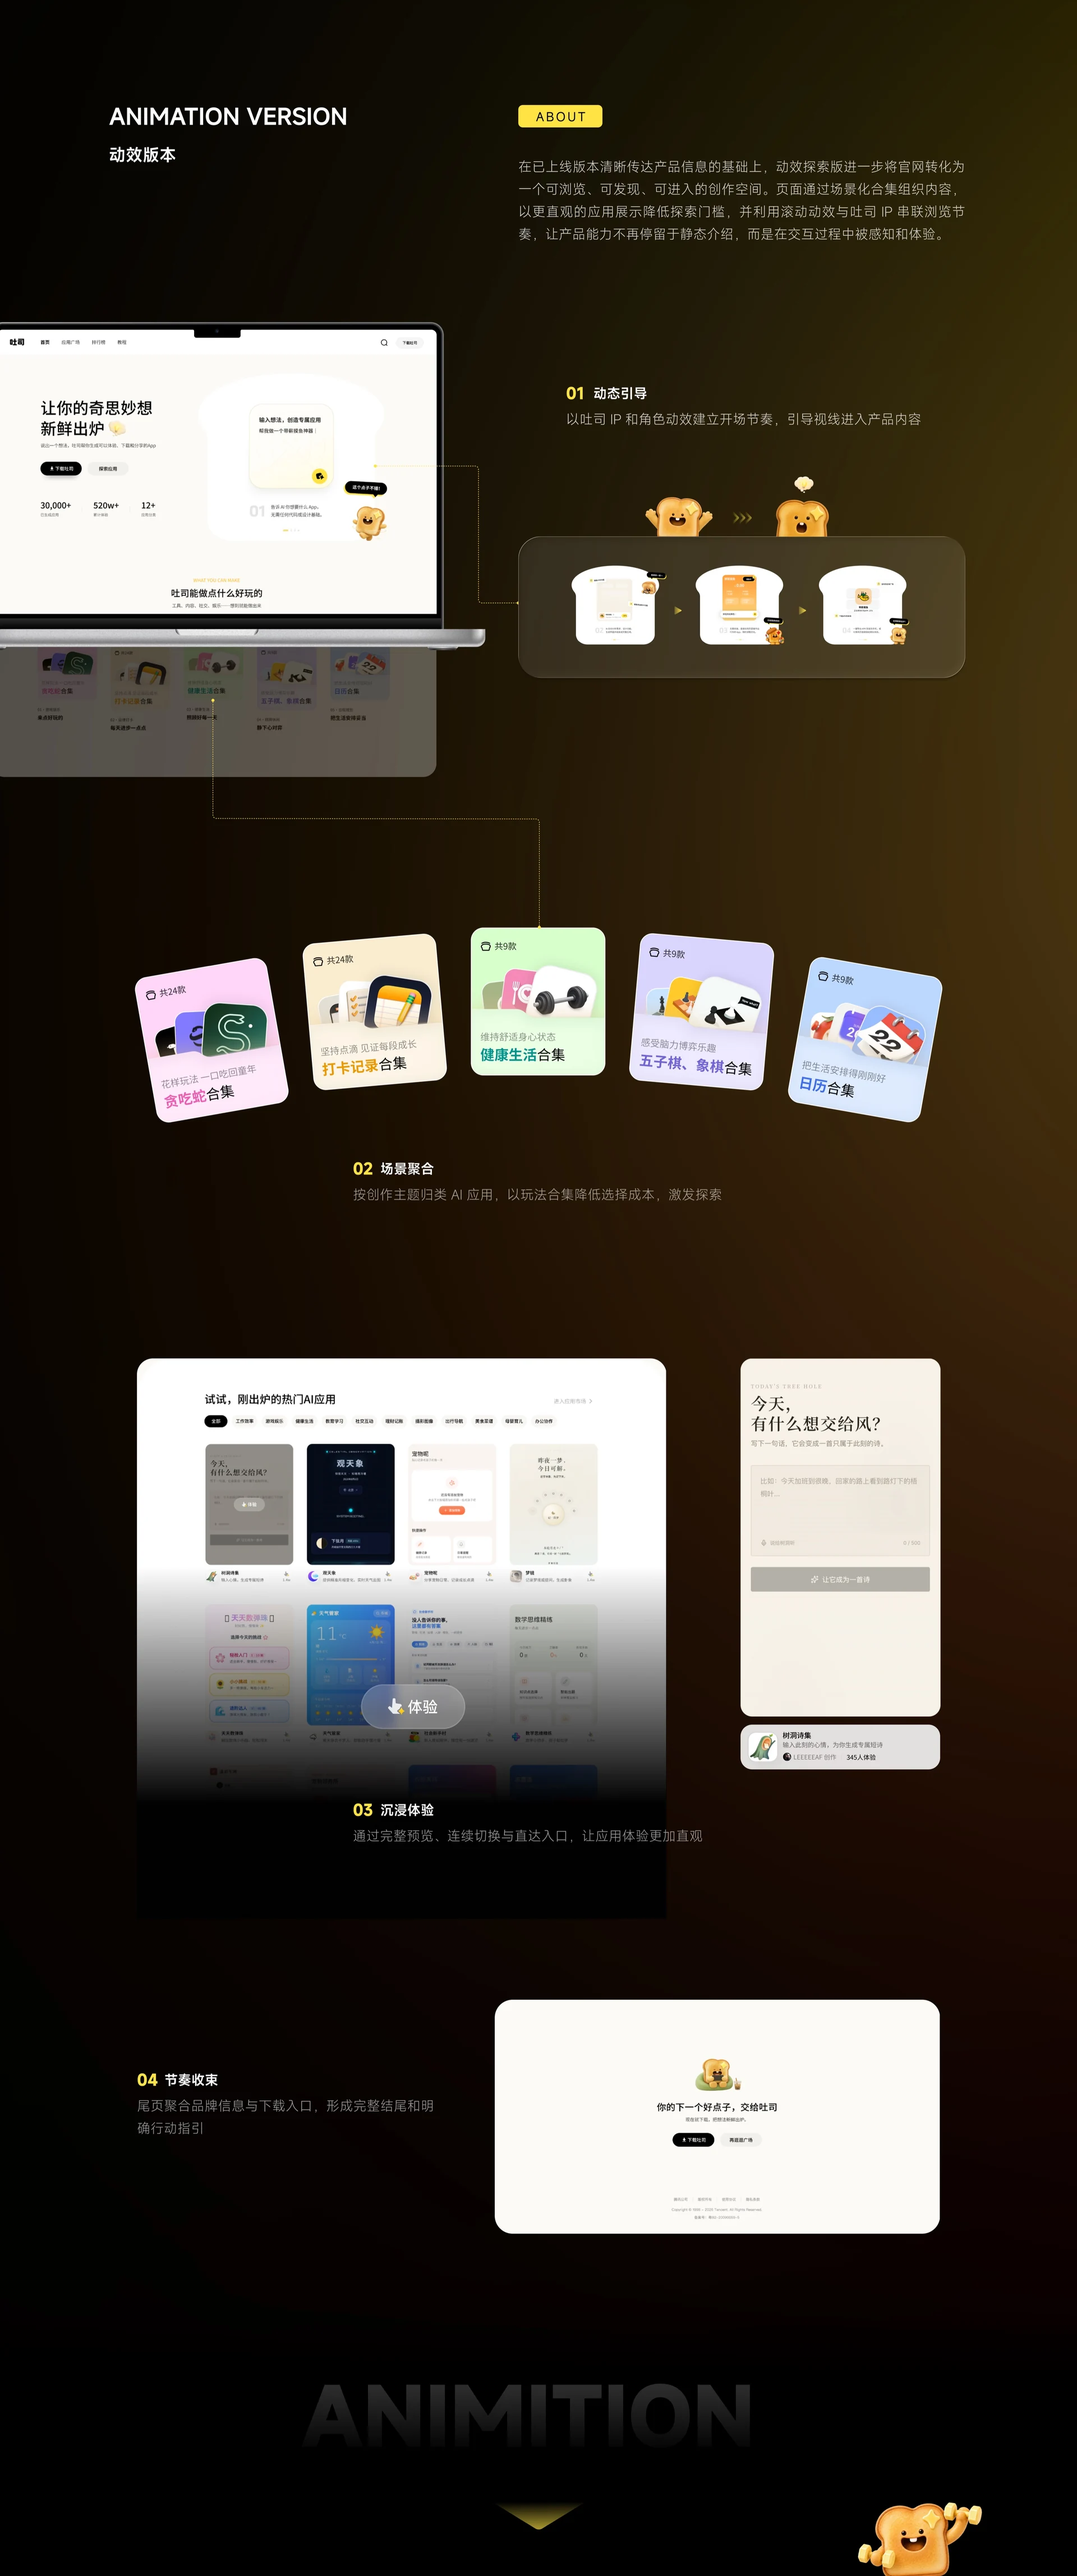
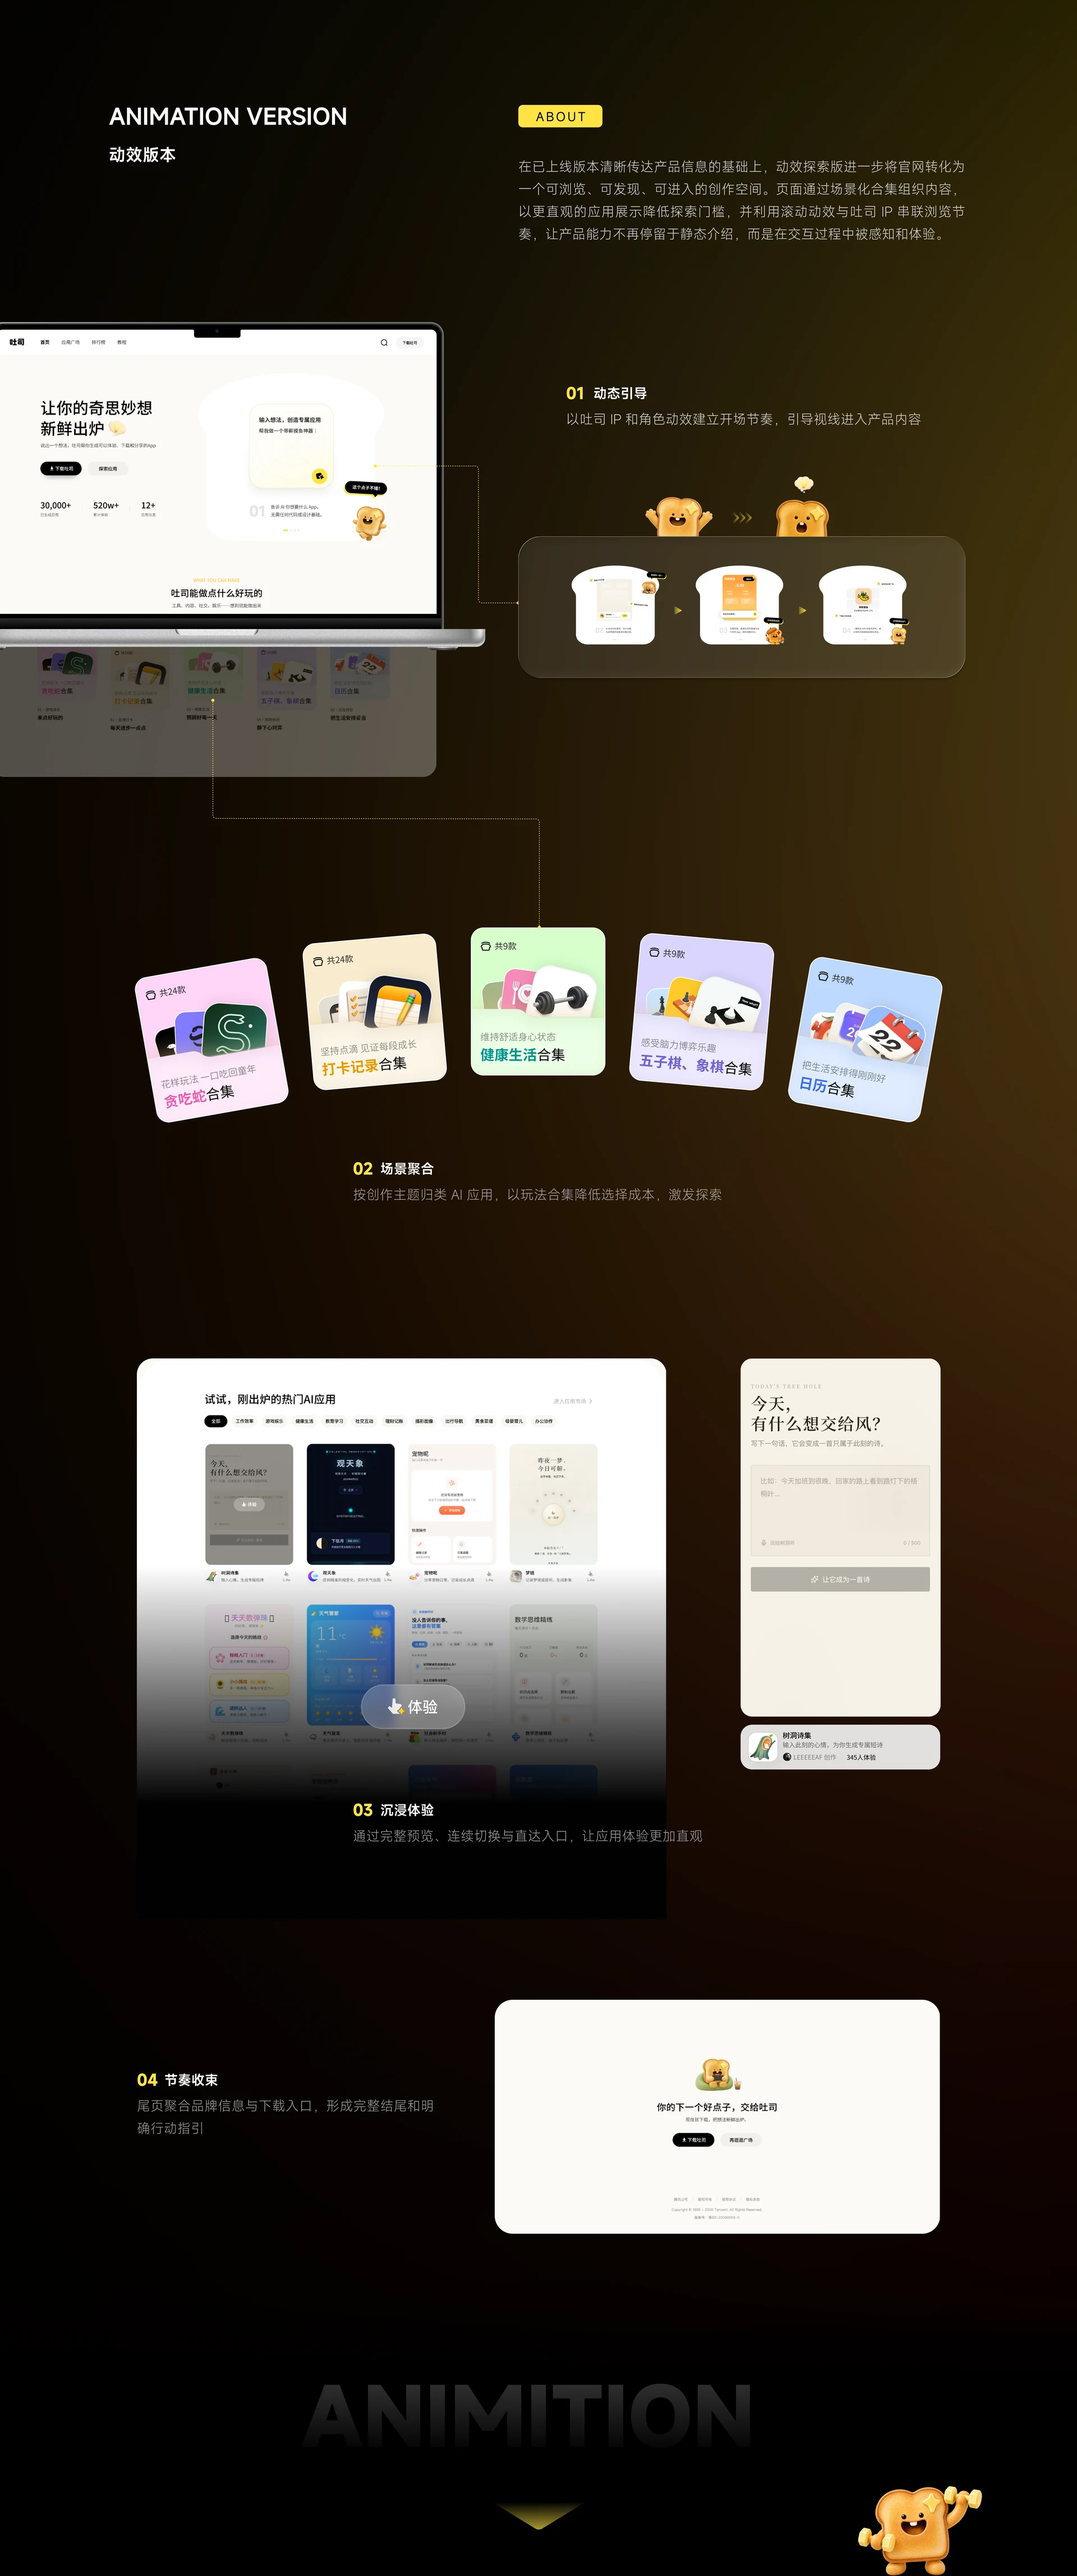
Replace Tusi visuals and preload portfolio imagery

Changed region(s): [[0.7812, 0.9656, 0.9062, 1.0]]

diff --git a/app/page.tsx b/app/page.tsx
@@ -23,7 +23,7 @@ const tusiCaseMedia = [
   { kind:'video', src:'/projects/case-studies/tusi/tusi-group.mp4', label:'吐司 IP 角色合照动态展示' },
   { kind:'image', src:'/projects/case-studies/tusi/03.webp', width:2880, height:1482, alt:'吐司官网设计项目进程' },
   { kind:'image', src:'/projects/case-studies/tusi/04.webp', width:2880, height:8067, alt:'吐司官网 PC 端与移动端界面设计' },
-  { kind:'image', src:'/projects/case-studies/tusi/05.webp', width:2880, height:6886, alt:'吐司官网动效版本设计' },
+  { kind:'image', src:'/projects/case-studies/tusi/05.webp', width:1920, height:4591, alt:'吐司官网动效版本设计' },
   { kind:'video', src:'/projects/case-studies/tusi/tusi-motion.mp4', label:'吐司官网动效版本完整演示' },
 ] as const;
 
@@ -41,7 +41,7 @@ const verticalSlideDimensions:Record<string,{width:number;height:number}> = {
   '/projects/tusi-interaction/06.webp':{width:2880,height:1620},
   '/projects/tusi-interaction/07.webp':{width:2880,height:1111},
   '/projects/tusi-interaction/08.webp':{width:2880,height:2457},
-  '/projects/tusi-interaction/09.webp':{width:2880,height:2473},
+  '/projects/tusi-interaction/09.webp':{width:1920,height:1649},
 };
 
 const verticalCaseIndexes = new Set(['01','02','03']);
@@ -67,6 +67,11 @@ const extendedWorks = [
 ];
 
 const detailWorks = [...projects,...extendedWorks,...otherWorks];
+const portfolioImageSources = Array.from(new Set([
+  '/figma/about-redesign/readmore-hero.webp',
+  ...detailWorks.map(work=>work.image),
+  ...detailWorks.flatMap(work=>work.slides),
+]));
 
 function LazyLoopVideo({src,label}:{src:string;label:string}) {
   const videoRef=useRef<HTMLVideoElement>(null);
@@ -104,23 +109,23 @@ function DeferredCaseImage({src,width,height,alt,eager=false}:{src:string;width:
     observer.observe(host);
     return ()=>observer.disconnect();
   },[eager,shouldLoad]);
-  return <span className="deferred-case-image" ref={hostRef}>{shouldLoad&&<Image src={src} width={width} height={height} sizes="(max-width: 1920px) 100vw, 1920px" priority={eager} quality={88} alt={alt}/>}</span>;
+  return <span className="deferred-case-image" ref={hostRef}>{shouldLoad&&<Image src={src} width={width} height={height} sizes="(max-width: 1920px) 100vw, 1920px" priority={eager} unoptimized alt={alt}/>}</span>;
 }
 
-function DeferredSlideImage({src,alt,eager=false}:{src:string;alt:string;eager?:boolean}) {
+function DeferredSlideImage({src,alt,eager=false,enabled=true,onLoad}:{src:string;alt:string;eager?:boolean;enabled?:boolean;onLoad?:()=>void}) {
   const hostRef=useRef<HTMLSpanElement>(null);
-  const [shouldLoad,setShouldLoad]=useState(eager);
+  const [shouldLoad,setShouldLoad]=useState(eager&&enabled);
   useEffect(()=>{
-    if(eager||shouldLoad)return;
+    if(!enabled||eager||shouldLoad)return;
     const host=hostRef.current;
     if(!host)return;
     const observer=new IntersectionObserver(entries=>{
       if(entries[0]?.isIntersecting){setShouldLoad(true);observer.disconnect()}
-    },{rootMargin:'0px 900px',threshold:.01});
+    },{rootMargin:'0px 120px',threshold:.01});
     observer.observe(host);
     return ()=>observer.disconnect();
-  },[eager,shouldLoad]);
-  return <span className="deferred-slide-image" ref={hostRef}>{shouldLoad&&<Image src={src} fill sizes="82vw" priority={eager} style={{objectFit:'contain'}} alt={alt}/>}</span>;
+  },[eager,enabled,shouldLoad]);
+  return <span className="deferred-slide-image" ref={hostRef}>{shouldLoad&&<Image src={src} fill sizes="82vw" priority={eager} fetchPriority={eager?'high':'auto'} onLoad={onLoad} unoptimized style={{objectFit:'contain'}} alt={alt}/>}</span>;
 }
 
 export default function Home() {
@@ -137,7 +142,7 @@ export default function Home() {
   const aboutDetailsRef = useRef<HTMLDivElement>(null);
   const workMenuRef = useRef<HTMLDivElement>(null);
   const showcaseRef = useRef<HTMLElement>(null);
-  const [showcaseIndex, setShowcaseIndex] = useState(0);
+  const [detailFirstReady,setDetailFirstReady] = useState(false);
   const [workTheme, setWorkTheme] = useState(false);
   const [workEnding, setWorkEnding] = useState(false);
   const [hoveredWorkIndex, setHoveredWorkIndex] = useState<string | null>(null);
@@ -158,6 +163,9 @@ export default function Home() {
   const openWork = (index:string,event?:ReactMouseEvent<HTMLButtonElement>)=>{
     const nextIndex=detailWorks.findIndex(work=>work.index===index);
     if(nextIndex<0)return;
+    setDetailFirstReady(false);
+    const firstSlide=detailWorks[nextIndex].slides[0];
+    if(firstSlide){const image=new window.Image();image.fetchPriority='high';image.src=firstSlide}
     const card=event?.currentTarget??document.querySelector<HTMLElement>(`.project-card-stack[data-work-index="${index}"]`);
     if(card)captureCardOrigin(card);
     setDetailMotion('opening');
@@ -172,14 +180,46 @@ export default function Home() {
       setDetailMotion('opening');
     },720);
   };
-  const showAdjacentWork = (direction:number)=>setActiveWorkIndex(current=>{
-    if(current===null)return null;
-    const next=(current+direction+detailWorks.length)%detailWorks.length;
-    const nextWork=detailWorks[next];
-    const card=document.querySelector<HTMLElement>(`.project-card-stack[data-work-index="${nextWork.index}"]`);
-    if(card)captureCardOrigin(card);
-    return next;
-  });
+  const showAdjacentWork = (direction:number)=>{
+    setDetailFirstReady(false);
+    setActiveWorkIndex(current=>{
+      if(current===null)return null;
+      const next=(current+direction+detailWorks.length)%detailWorks.length;
+      const nextWork=detailWorks[next];
+      const card=document.querySelector<HTMLElement>(`.project-card-stack[data-work-index="${nextWork.index}"]`);
+      if(card)captureCardOrigin(card);
+      const firstSlide=nextWork.slides[0];
+      if(firstSlide){const image=new window.Image();image.fetchPriority='high';image.src=firstSlide}
+      return next;
+    });
+  };
+
+  useEffect(()=>{
+    let cancelled=false;
+    let startTimer=0;
+    const preload=(src:string,priority:'high'|'low'='low')=>new Promise<void>(resolve=>{
+      const image=new window.Image();
+      image.decoding='async';
+      image.fetchPriority=priority;
+      image.onload=image.onerror=()=>resolve();
+      image.src=src;
+    });
+    const criticalSources=['/figma/about-redesign/readmore-hero.webp',...detailWorks.map(work=>work.image)];
+    criticalSources.forEach(src=>void preload(src,'high'));
+    const backgroundSources=portfolioImageSources.filter(src=>!criticalSources.includes(src));
+    let cursor=0;
+    const worker=async()=>{
+      while(!cancelled&&cursor<backgroundSources.length){
+        const src=backgroundSources[cursor++];
+        await preload(src);
+        await new Promise<void>(resolve=>window.setTimeout(resolve,80));
+      }
+    };
+    const begin=()=>{startTimer=window.setTimeout(()=>{void Promise.all([worker(),worker(),worker()])},500)};
+    if(document.readyState==='complete')begin();
+    else window.addEventListener('load',begin,{once:true});
+    return ()=>{cancelled=true;window.clearTimeout(startTimer);window.removeEventListener('load',begin)};
+  },[]);
   const syncHorizontalSlides=(track:HTMLDivElement)=>{
     const trackCenter=track.scrollLeft+track.clientWidth/2;
     const range=Math.max(track.clientWidth*.68,1);
@@ -285,9 +325,6 @@ export default function Home() {
         card.style.pointerEvents=visible>.35?'auto':'none';
         card.style.zIndex=String(20+index);
       });
-      const raw=(timeline-introDuration)/cardGap;
-      const next=Math.max(0,Math.min(cards.length-1,Math.round(raw)));
-      setShowcaseIndex(current=>current===next?current:next);
       if(stage){
         const outro=smooth(lastCardEnd-.12,lastCardEnd+.36,timeline);
         const capabilities=smooth(lastCardEnd-.18,lastCardEnd+.58,timeline);
@@ -546,7 +583,7 @@ export default function Home() {
     {aboutDetailsOpen&&<div className="about-details" ref={aboutDetailsRef} role="dialog" aria-modal="true" aria-label="Puregan 个人经历详情">
       <button className="about-details-close" type="button" onClick={()=>setAboutDetailsOpen(false)} aria-label="关闭个人经历详情">CLOSE</button>
       <section className="about-details-hero">
-        <Image src="/figma/about-redesign/readmore-hero.webp" fill priority sizes="100vw" alt="Puregan 个人肖像"/>
+        <Image src="/figma/about-redesign/readmore-hero.webp" fill priority unoptimized sizes="100vw" alt="Puregan 个人肖像"/>
         <div className="about-details-gradient" aria-hidden="true"/>
         <div className="about-details-title"><h2>Puregan</h2><div><b>Visual &amp; User Experience Designer</b><span>2026</span></div></div>
         <time>（2001.12.01）</time>
@@ -575,10 +612,10 @@ export default function Home() {
       <div className="card-stage">
         <p className="work-manifesto">AESTHETICS = JUDGMENT + INTUITION</p>
         <div className="card-background" aria-hidden="true">PROJECTS</div>
-        <div className="project-card-deck" aria-label="全部作品目录">{detailWorks.map((p,index)=>{const shouldRenderCover=Math.abs(index-showcaseIndex)<=2;return <button className={`project-card-stack${activeWork?.index===p.index?' is-transition-source':''}`} data-work-index={p.index} type="button" onClick={event=>openWork(p.index,event)} key={p.index} aria-label={`查看${p.title}项目详情`}>
-          <figure>{shouldRenderCover&&<Image src={p.image} fill sizes="(max-width: 760px) 78vw, 34vw" priority={index===0} loading={index===0?undefined:'lazy'} quality={82} alt={`${p.title}项目封面`}/>}</figure>
+        <div className="project-card-deck" aria-label="全部作品目录">{detailWorks.map((p,index)=><button className={`project-card-stack${activeWork?.index===p.index?' is-transition-source':''}`} data-work-index={p.index} type="button" onClick={event=>openWork(p.index,event)} key={p.index} aria-label={`查看${p.title}项目详情`}>
+          <figure><Image src={p.image} fill sizes="(max-width: 760px) 78vw, 34vw" priority={index<3} loading={index<3?undefined:'lazy'} unoptimized alt={`${p.title}项目封面`}/></figure>
           <div className="project-card-copy"><span>({String(index+1).padStart(2,'0')})</span><h3 className={p.english.startsWith('「')?'bracket-leading':undefined}>{p.english}</h3><h4>{p.title}</h4><div className="project-card-notes"><em>{p.type.split(' · ')[0]}</em><b aria-hidden="true"/><p>{p.description}</p></div><i>↗</i></div>
-        </button>})}</div>
+        </button>)}</div>
         <p className="work-selected">SELECTED WORKS<br/>2023—2026</p>
         <div className="work-capabilities" aria-label="设计能力">
           <p>DESIGN PRACTICE / 2026</p>
@@ -590,7 +627,7 @@ export default function Home() {
     {activeWork&&<div className={`project-detail detail-motion-${detailMotion}${isVerticalCase?' is-vertical-case':''}`} role="dialog" aria-modal="true" aria-label={`${activeWork.title}项目详情`} style={{'--case-bg':activeWork.color,'--case-ink':activeWork.ink,'--origin-left':`${detailOrigin.left}px`,'--origin-top':`${detailOrigin.top}px`,'--origin-width':`${detailOrigin.width}px`,'--origin-height':`${detailOrigin.height}px`,'--origin-radius':`${detailOrigin.radius}px`} as CSSProperties}>
       <div className="detail-backdrop" aria-hidden="true"/>
       <div className="detail-card-morph" aria-hidden="true">
-        <figure><Image src={activeWork.image} fill sizes="40vw" priority alt=""/></figure>
+        <figure><Image src={activeWork.image} fill sizes="40vw" priority unoptimized alt=""/></figure>
         <div><span>({activeWork.index})</span><h3 className={activeWork.english.startsWith('「')?'bracket-leading':undefined}>{activeWork.english}</h3><h4>{activeWork.title}</h4></div>
       </div>
       {isVerticalCase?<>
@@ -609,7 +646,7 @@ export default function Home() {
       </>:<>
         <header className="detail-gallery-nav detail-reveal"><span>PUREGAN</span><strong>[ SCROLL / DRAG TO EXPLORE ]</strong><span>{activeWork.index} / {String(detailWorks.length).padStart(2,'0')}</span></header>
         <div className={`detail-track detail-reveal${isCenteredSingle?' is-centered-single':''}`} ref={detailTrackRef} onScroll={event=>syncHorizontalSlides(event.currentTarget)} onWheel={moveDetail} onPointerDown={beginDetailDrag} onPointerMove={dragDetail} onPointerUp={endDetailDrag} onPointerCancel={endDetailDrag}>
-          {activeWork.slides.map((slide,index)=><figure className="detail-slide" key={slide}><DeferredSlideImage src={slide} eager={index===0} alt={`${activeWork.title}设计展示第${index+1}页`}/></figure>)}
+          {activeWork.slides.map((slide,index)=><figure className="detail-slide" key={slide}><DeferredSlideImage src={slide} eager={index===0} enabled={index===0||detailFirstReady} onLoad={index===0?()=>setDetailFirstReady(true):undefined} alt={`${activeWork.title}设计展示第${index+1}页`}/></figure>)}
         </div>
         <aside className="detail-gallery-meta detail-reveal"><span>PROJECT {activeWork.index}</span><h2>{activeWork.english}</h2><h3>{activeWork.title}</h3><p>{activeWork.description}</p><dl><div><dt>YEAR</dt><dd>{activeWork.year}</dd></div><div><dt>TYPE</dt><dd>{activeWork.type}</dd></div></dl></aside>
         <div className="detail-gallery-switch detail-reveal"><button type="button" onClick={()=>showAdjacentWork(-1)}>← PREV</button><button type="button" onClick={()=>showAdjacentWork(1)}>NEXT →</button></div>
